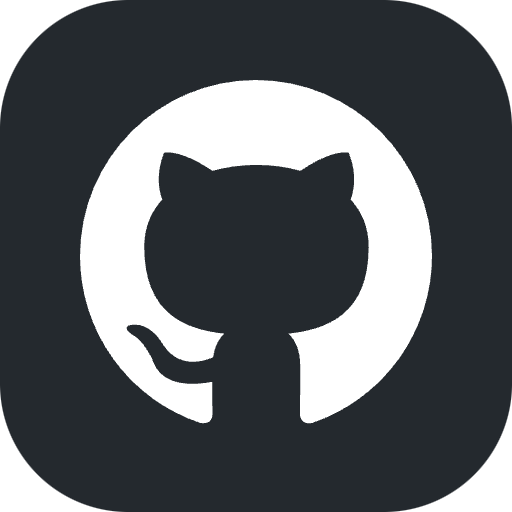
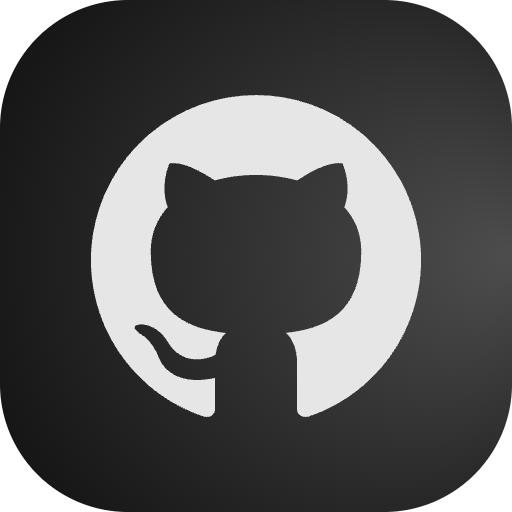
feat: add usage extension to monitor AI usage
Monitor usage for Open Code Go, DeepSeek and APIMart (apib.ai) providers.
API keys are entered via extension preferences; base URLs are hardcoded.

Also unify github extension command icons and update lint config.

Changed region(s): [[0.1562, 0.1562, 1.0, 0.8438]]

diff --git a/extensions/usage/src/usage.tsx b/extensions/usage/src/usage.tsx
@@ -1,0 +1,133 @@
+import { Action, ActionPanel, Color, Icon, List } from '@raycast/api'
+import { usePromise } from '@raycast/utils'
+import type { ReactNode } from 'react'
+import { getUsage } from './utils'
+import type { ApimartBalance, DeepSeekBalance, OcgUsage } from './utils'
+
+const OCG_BUCKETS = [
+  { key: 'rolling', title: 'Rolling (5h)' },
+  { key: 'weekly', title: 'Weekly' },
+  { key: 'monthly', title: 'Monthly' },
+] as const
+
+function tintColor(percent: number) {
+  if (percent >= 80) {
+    return Color.Red
+  }
+  if (percent >= 50) {
+    return Color.Orange
+  }
+  return Color.Green
+}
+
+function refreshActions(revalidate: () => void) {
+  return (
+    <ActionPanel>
+      <Action title='Refresh' icon={Icon.ArrowClockwise} onAction={revalidate} />
+    </ActionPanel>
+  )
+}
+
+function OcgItems({ data, revalidate }: { data: OcgUsage; revalidate: () => void }) {
+  return OCG_BUCKETS.map(({ key, title }) => {
+    const bucket = data.usage[key]
+    return (
+      <List.Item
+        key={key}
+        icon={{ source: Icon.Gauge, tintColor: tintColor(bucket.percent) }}
+        title={title}
+        subtitle={`${bucket.percent}% used`}
+        accessories={[{ text: `resets ${new Date(bucket.resetsAt).toLocaleString()}` }]}
+        actions={refreshActions(revalidate)}
+      />
+    )
+  })
+}
+
+function DeepSeekItems({ data, revalidate }: { data: DeepSeekBalance; revalidate: () => void }) {
+  return data.balance_infos.map((info) => (
+    <List.Item
+      key={info.currency}
+      icon={{ source: Icon.Coin, tintColor: data.is_available ? Color.Green : Color.Red }}
+      title={`${info.total_balance} ${info.currency}`}
+      subtitle={`granted ${info.granted_balance} · topped up ${info.topped_up_balance}`}
+      accessories={[{ text: data.is_available ? 'Available' : 'Unavailable' }]}
+      actions={refreshActions(revalidate)}
+    />
+  ))
+}
+
+function ApimartItems({ data, revalidate }: { data: ApimartBalance; revalidate: () => void }) {
+  return (
+    <List.Item
+      icon={{ source: Icon.Coin, tintColor: data.success ? Color.Green : Color.Red }}
+      title={`Remaining: ${data.remain_balance} · ${data.remain_credits} credits`}
+      subtitle={`Used: ${data.used_balance} · ${data.used_credits} credits`}
+      accessories={[{ text: data.success ? 'OK' : 'Failed' }]}
+      actions={refreshActions(revalidate)}
+    />
+  )
+}
+
+function ProviderSection<T>({
+  title,
+  error,
+  data,
+  revalidate,
+  render,
+}: {
+  title: string
+  error?: Error
+  data?: T
+  revalidate: () => void
+  render: (data: T) => ReactNode
+}) {
+  let content: ReactNode
+  if (error) {
+    content = (
+      <List.Item
+        icon={Icon.Warning}
+        title={title}
+        subtitle={error.message}
+        actions={refreshActions(revalidate)}
+      />
+    )
+  } else if (data) {
+    content = render(data)
+  } else {
+    content = null
+  }
+  return <List.Section title={title}>{content}</List.Section>
+}
+
+export default function Command() {
+  const ocg = usePromise(() => getUsage('opencode-go'))
+  const ds = usePromise(() => getUsage('deepseek'))
+  const apimart = usePromise(() => getUsage('apimart'))
+
+  return (
+    <List isLoading={ocg.isLoading || ds.isLoading || apimart.isLoading}>
+      <ProviderSection
+        title='OpenCode Go'
+        error={ocg.error}
+        data={ocg.data}
+        revalidate={ocg.revalidate}
+        render={(data) => <OcgItems data={data} revalidate={ocg.revalidate} />}
+      />
+      <ProviderSection
+        title='DeepSeek'
+        error={ds.error}
+        data={ds.data}
+        revalidate={ds.revalidate}
+        render={(data) => <DeepSeekItems data={data} revalidate={ds.revalidate} />}
+      />
+      <ProviderSection
+        title='APIMart'
+        error={apimart.error}
+        data={apimart.data}
+        revalidate={apimart.revalidate}
+        render={(data) => <ApimartItems data={data} revalidate={apimart.revalidate} />}
+      />
+    </List>
+  )
+}

diff --git a/extensions/usage/src/utils/index.ts b/extensions/usage/src/utils/index.ts
@@ -1,0 +1,91 @@
+import { getPreferenceValues } from '@raycast/api'
+
+interface OcgBucket {
+  status: string
+  percent: number
+  resetsAt: string
+}
+
+export interface OcgUsage {
+  usage: {
+    rolling: OcgBucket
+    weekly: OcgBucket
+    monthly: OcgBucket
+  }
+}
+
+export interface DeepSeekBalanceInfo {
+  currency: string
+  total_balance: string
+  granted_balance: string
+  topped_up_balance: string
+}
+
+export interface DeepSeekBalance {
+  is_available: boolean
+  balance_infos: DeepSeekBalanceInfo[]
+}
+
+export interface ApimartBalance {
+  success: boolean
+  remain_balance: number
+  remain_credits: number
+  used_balance: number
+  used_credits: number
+}
+
+interface Preferences {
+  ocgApiKey: string
+  dsApiKey: string
+  apimartApiKey: string
+}
+
+const providers = {
+  'opencode-go': {
+    title: 'OpenCode Go',
+    baseUrl: 'https://opencode.ai/zen/go/v1',
+    apiKey: 'ocgApiKey',
+    path: '/usage',
+  },
+  deepseek: {
+    title: 'DeepSeek',
+    baseUrl: 'https://api.deepseek.com',
+    apiKey: 'dsApiKey',
+    path: '/user/balance',
+  },
+  apimart: {
+    title: 'APIMart',
+    baseUrl: 'https://api.apib.ai',
+    apiKey: 'apimartApiKey',
+    path: '/v1/user/balance',
+  },
+} as const
+
+export type ProviderKey = keyof typeof providers
+type Result<T extends ProviderKey> = T extends 'opencode-go'
+  ? OcgUsage
+  : T extends 'deepseek'
+    ? DeepSeekBalance
+    : ApimartBalance
+
+async function requestJson<T>(baseUrl: string, apiKey: string, path: string): Promise<T> {
+  const res = await fetch(`${baseUrl.replace(/\/+$/, '')}${path}`, {
+    headers: { Authorization: `Bearer ${apiKey}`, Accept: 'application/json' },
+  })
+  if (!res.ok) {
+    throw new Error(`HTTP ${res.status} ${res.statusText}`)
+  }
+  return (await res.json()) as T
+}
+
+export async function getUsage<T extends ProviderKey>(key: T): Promise<Result<T>> {
+  const config = providers[key]
+  const prefs = getPreferenceValues<Preferences>()
+  const apiKey = prefs[config.apiKey]
+  const data = await requestJson<OcgUsage | DeepSeekBalance | ApimartBalance>(
+    config.baseUrl,
+    apiKey,
+    config.path,
+  )
+  return data as Result<T>
+}

diff --git a/extensions/usage/raycast-env.d.ts b/extensions/usage/raycast-env.d.ts
@@ -1,0 +1,31 @@
+/// <reference types="@raycast/api">
+
+/* 🚧 🚧 🚧
+ * This file is auto-generated from the extension's manifest.
+ * Do not modify manually. Instead, update the `package.json` file.
+ * 🚧 🚧 🚧 */
+
+/* eslint-disable @typescript-eslint/ban-types */
+
+type ExtensionPreferences = {
+  /** OpenCode Go API Key - Your OpenCode Go API key */
+  "ocgApiKey": string,
+  /** DeepSeek API Key - Your DeepSeek API key */
+  "dsApiKey": string,
+  /** APIMart API Key - Your APIMart API key */
+  "apimartApiKey": string
+}
+
+/** Preferences accessible in all the extension's commands */
+declare type Preferences = ExtensionPreferences
+
+declare namespace Preferences {
+  /** Preferences accessible in the `usage` command */
+  export type Usage = ExtensionPreferences & {}
+}
+
+declare namespace Arguments {
+  /** Arguments passed to the `usage` command */
+  export type Usage = {}
+}
+

diff --git a/oxlint.config.ts b/oxlint.config.ts
@@ -1,7 +1,9 @@
 import { defineOxlintConfig } from '@jiakun-zhao/config'
 
 export default defineOxlintConfig({
+  ignorePatterns: ['extensions/**/raycast-env.d.ts'],
   rules: {
     'new-cap': 'off',
+    'no-process-env': 'off',
   },
 })
